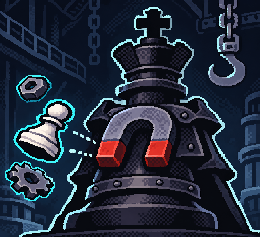
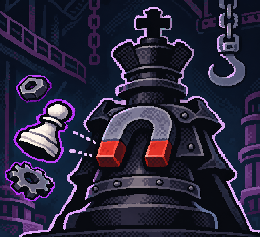
Square-crop the assembly portrait; recolor magnet glow so act-2 pair differs
조립 반장 초상을 정사각으로 자르고, 같은 2막 짝인 자석 반장의 청록 빛을 보라로 바꿔 막마다 둘 중 하나로 나오는 반장끼리 색이 겹치지 않게 했습니다.

Claude-Session: https://claude.ai/code/session_011jC4ZCDKW43H5FzLWnYVpe

diff --git a/tools/pixel/boss_avatars.py b/tools/pixel/boss_avatars.py
@@ -15,7 +15,7 @@ S = 60
 # 반장 규칙 → (초상화, 왼쪽 위 x, y) — 왕관 십자가 가운데 오게 손으로 맞춘 칸
 CROPS = {
     'plate': ('public/scenes/boss-plate.png', 72, 2),
-    'spawn': ('public/scenes/boss-assembly.png', 163, 4),
+    'spawn': ('public/scenes/boss-assembly.png', 53, 4),
     'thorns': ('public/scenes/boss-thorns.png', 82, 4),
 }
 
